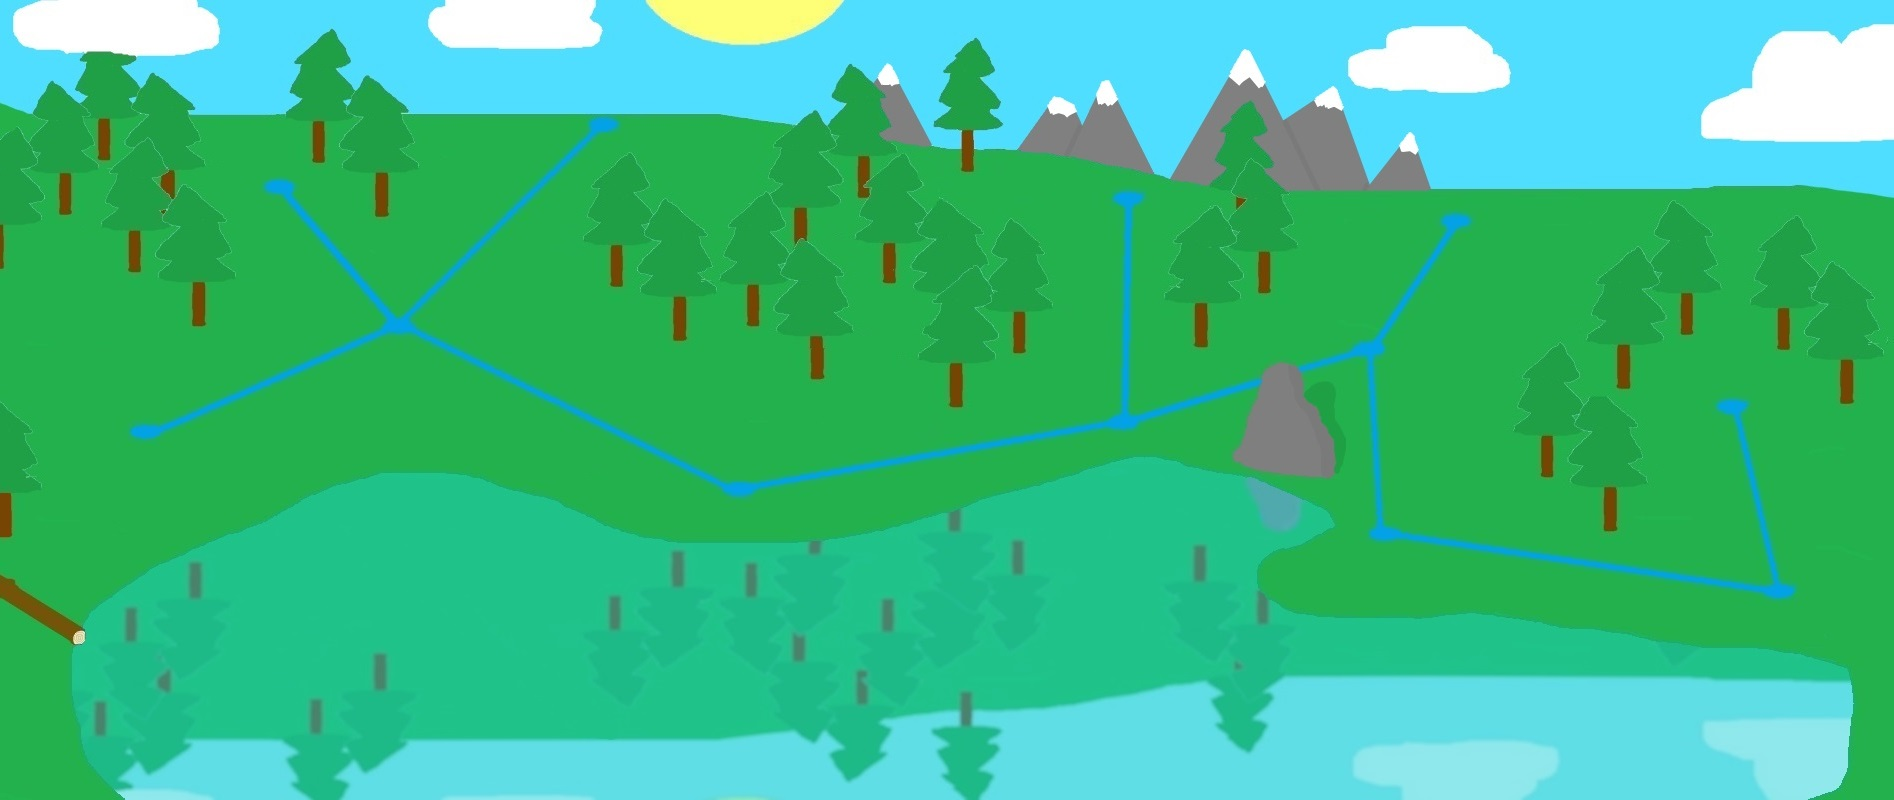
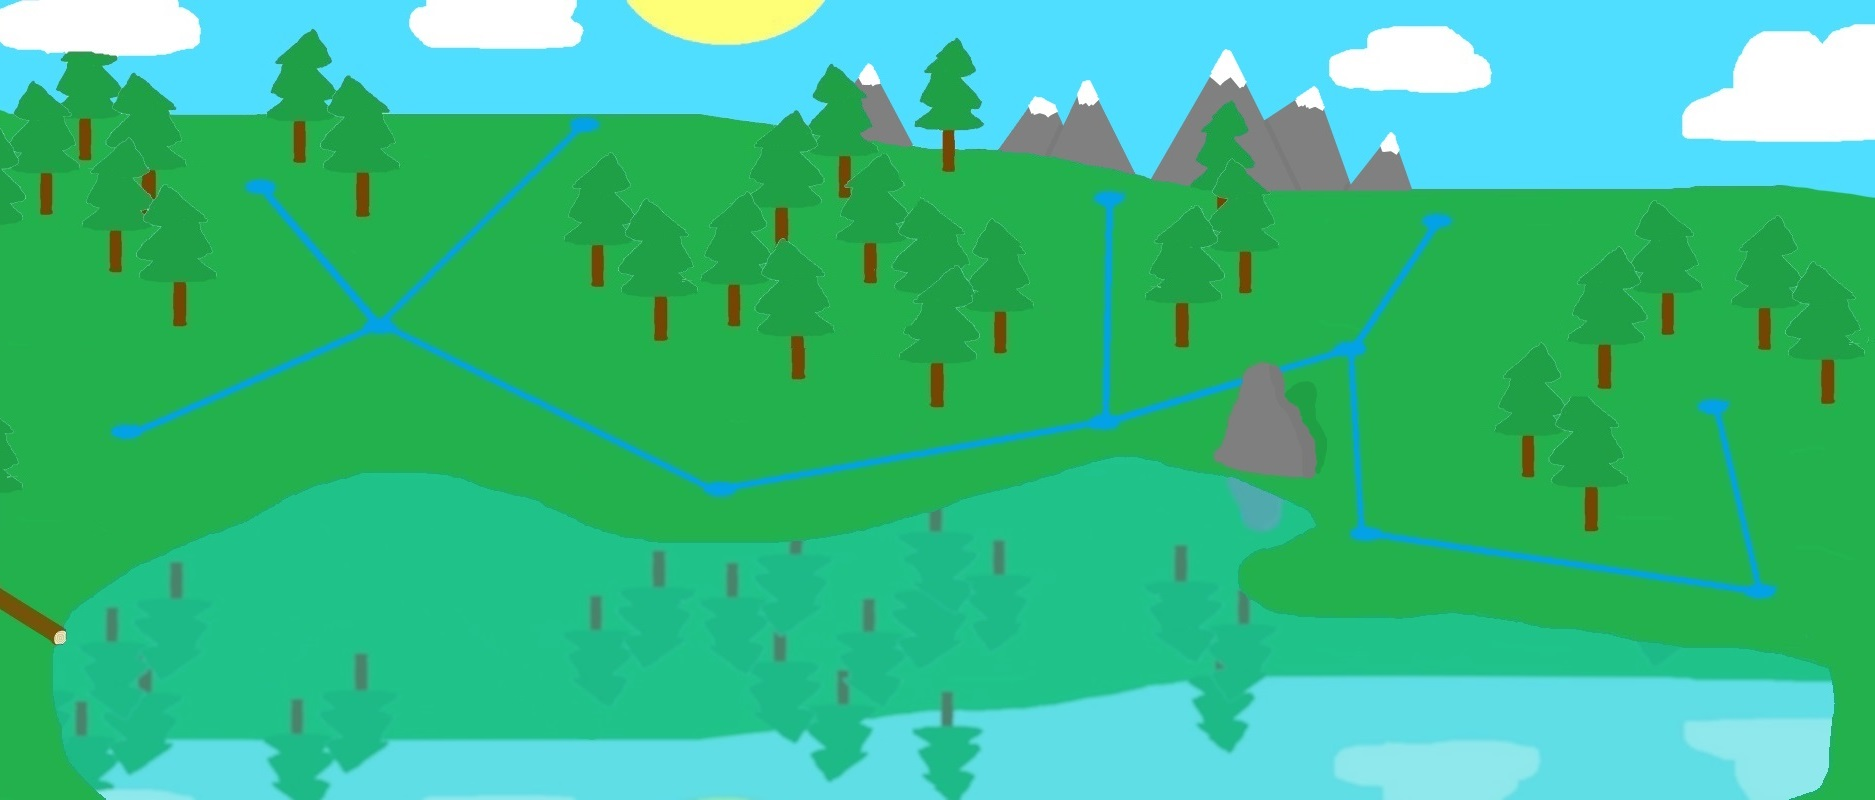
Shrunk Screen, fixed glitches.

diff --git a/Civilization Game/source.js b/Civilization Game/source.js
@@ -17,10 +17,10 @@ var pushedButton = "";
 var pressed = false;
 var burning = false;
 var burningTown;
-var messageDisplay1=false;
+var message1 = false;
 
 function resetMessages(){
-    messageDisplay1=false;
+    message1 = false;
 }
 
 function destroyTown(){
@@ -50,75 +50,77 @@ function mapPoint(x,y){
     this.y = y;
 }
 
+
+    
 function adjacent(x1,y1,x2,y2){
-    if(x1==100 && y1==340){
-        if(x2==355 && y2==233){
+    if(x1==50 && y1==340){
+        if(x2==305 && y2==233){
             return true;
         }else{
             return false;
         }
-    }else if(x1==240 && y1==90){
-        if(x2==355 && y2==233){
+    }else if(x1==190 && y1==90){
+        if(x2==305 && y2==233){
             return true;
         }else{
             return false;
         }
-    }else if(x1==355 && y1==233){
-        if(x2==100 && y2==340 || x2==240 && y2==90 || x2==550 && y2==30 || x2==695 && y2==400){
+    }else if(x1==305 && y1==233){
+        if(x2==50 && y2==340 || x2==190 && y2==90 || x2==500 && y2==30 || x2==645 && y2==400){
             return true;
         }else{
             return false;
         }
-    }else if(x1==550 && y1==30){
-        if(x2==355 && y2==233){
+    }else if(x1==500 && y1==30){
+        if(x2==305 && y2==233){
             return true;
         }else{
             return false;
         }
-    }else if(x1==695 && y1==400){
-        if(x2==355 && y2==233|| x2==1080 && y2==330){
+    }else if(x1==645 && y1==400){
+        if(x2==305 && y2==233|| x2==1050 && y2==330){
             return true;
         }else{
             return false;
         }
-    }else if(x1==1080 && y1==330){
-        if(x2==695 && y2==400 || x2==1085 && y2==100||x2==1320 && y2==260){
+    }else if(x1==1050 && y1==330){
+        if(x2==645 && y2==400 || x2==1035 && y2==100||x2==1270 && y2==260){
             return true;
         }else{
             return false;
         }
-    }else if(x1==1085 && y1==100){
-        if(x2==1080 && y2==330){
+    }else if(x1==1035 && y1==100){
+        if(x2==1050 && y2==330){
             return true;
         }else{
             return false;
         }
-    }else if(x1==1320 && y1==260){
-        if(x2==1080 && y2==330 || x2==1415 && y2==125 || x2==1340 && y2==440){
+    }else if(x1==1270 && y1==260){
+        if(x2==1050 && y2==330 || x2==1365 && y2==125 || x2==1290 && y2==440){
             return true;
         }else{
             return false;
         }
-    }else if(x1==1415 && y1==125){
-        if(x2==1320 && y2==260){
+    }else if(x1==1365 && y1==125){
+        if(x2==1270 && y2==260){
             return true;
         }else{
             return false;
         }
-    }else if(x1==1340 && y1==440){
-        if(x2==1320 && y2==260 || x2==1730 && y2==500){
+    }else if(x1==1290 && y1==440){
+        if(x2==1270 && y2==260 || x2==1680 && y2==500){
             return true;
         }else{
             return false;
         }
-    }else if(x1==1730 && y1==500){
-        if(x2==1340 && y2==440 || x2==1690 && y2==310){
+    }else if(x1==1680 && y1==500){
+        if(x2==1290 && y2==440 || x2==1640 && y2==310){
             return true;
         }else{
             return false;
         }
-    }else if(x1==1690 && y1==310){
-        if(x2==1730 && y2==500){
+    }else if(x1==1640 && y1==310){
+        if(x2==1680 && y2==500){
             return true;
         }else{
             return false;
@@ -371,7 +373,7 @@ function angleBetween(x1,y1,x2,y2){
     };
 
     var angleRadians = Math.atan2(p2.y - p1.y, p2.x - p1.x);
-    var angleDeg = Math.atan2(p2.y - p1.y, p2.x - p1.x) * 180 / Math.PI;  
+    var angleDeg = Math.atan2(p2.y - p1.y, p2.x - p1.x) * 190 / Math.PI;  
     return(angleDeg);  
 }
 
@@ -519,18 +521,18 @@ function setup() {
     document.getElementById("MapUnit1").style.top=0;
     document.getElementById("MapUnit2").style.left=0;
     document.getElementById("MapUnit2").style.top=0;
-    mapPoints.push(new mapPoint(100,340));
-    mapPoints.push(new mapPoint(240,90));
-    mapPoints.push(new mapPoint(355,233));
-    mapPoints.push(new mapPoint(550,30));
-    mapPoints.push(new mapPoint(695,400));
-    mapPoints.push(new mapPoint(1080,330));
-    mapPoints.push(new mapPoint(1085,100));
-    mapPoints.push(new mapPoint(1320,260));
-    mapPoints.push(new mapPoint(1415,125));
-    mapPoints.push(new mapPoint(1340,440));
-    mapPoints.push(new mapPoint(1730,500));
-    mapPoints.push(new mapPoint(1690,310));
+    mapPoints.push(new mapPoint(50,340));
+    mapPoints.push(new mapPoint(190,90));
+    mapPoints.push(new mapPoint(305,233));
+    mapPoints.push(new mapPoint(500,30));
+    mapPoints.push(new mapPoint(645,400));
+    mapPoints.push(new mapPoint(1050,330));
+    mapPoints.push(new mapPoint(1035,100));
+    mapPoints.push(new mapPoint(1270,260));
+    mapPoints.push(new mapPoint(1365,125));
+    mapPoints.push(new mapPoint(1290,440));
+    mapPoints.push(new mapPoint(1680,500));
+    mapPoints.push(new mapPoint(1640,310));
 
     var rand = round(random(0,11));
     towns.push(new Town(mapPoints[rand].x,mapPoints[rand].y,1,1));    
@@ -628,6 +630,12 @@ function draw() {
         towns[i].render();
         towns[i].update();
     }
+
+    if(message1==true){
+        document.getElementById("SquadTroops").style.top = 835;
+        document.getElementById("SquadTroops").innerHTML = "You need at least 2 peasants to reproduce.";
+    }
+
     for(var a=0;a<squads.length;a++){
         squads[a].render();
     }
@@ -700,7 +708,7 @@ function draw() {
 
         for(var a=0;a<squads[squad1].units.length;a++){
             document.getElementById("SquadUnit"+(a+1)).style.left = 305;
-            document.getElementById("SquadUnit"+(a+1)).style.top = 295 +(45*squads[squad1].units.length-1)-(45*(a+1))+(291-parseInt(document.getElementById("Slider1").style.top));
+            document.getElementById("SquadUnit"+(a+1)).style.top = 305 +(45*squads[squad1].units.length-1)-(45*(a+1))+(291-parseInt(document.getElementById("Slider1").style.top));
 
             if(squads[squad1].units[a].unitType==1){
                 document.getElementById("SquadUnit"+(a+1)).src = "graphics/SwordsmanListUnit.png";   
@@ -723,7 +731,7 @@ function draw() {
         if(squads[squad2] != null){
             for(var a=0;a<squads[squad2].units.length;a++){
                 document.getElementById("GarrisonUnit"+(a+1)).style.left = 1405;
-                document.getElementById("GarrisonUnit"+(a+1)).style.top = 295 +(45*squads[squad2].units.length-1)-(45*(a+1))+(291-parseInt(document.getElementById("Slider2").style.top));
+                document.getElementById("GarrisonUnit"+(a+1)).style.top = 305 +(45*squads[squad2].units.length-1)-(45*(a+1))+(291-parseInt(document.getElementById("Slider2").style.top));
 
                 if(squads[squad2].units[a].unitType==1){
                     document.getElementById("GarrisonUnit"+(a+1)).src = "graphics/SwordsmanListUnit.png";   

diff --git a/Civilization Game/mouse.js b/Civilization Game/mouse.js
@@ -337,15 +337,15 @@ function mouseReleased() {
                         var unitRemoved = false;
                         for(var c=0;c<towns[i].garrison.length;c++){
                             if(unitRemoved == false){
-                                if(towns[i].garrison[c].unitType == 4&&towns[i].peasants>2){
+                                if(towns[i].garrison[c].unitType == 4 && towns[i].peasants>2){
                                     gold = gold + 5;
                                     towns[i].garrison.splice(c,1); 
                                     towns[i].garrison.push(new Unit(5));
                                     unitRemoved = true;
                                     document.getElementById("Click").play();
                                 }else{
-                                    messageDisplay1 = true;
-                                    setTimeout(resetMessages, 2000);
+                                    message1 = true;
+                                    setTimeout(resetMessages,2000);
                                 }
                             }
                         }
@@ -357,6 +357,7 @@ function mouseReleased() {
             for(var i=0;i<towns.length;i++){
                 if(selection == towns[i] && towns[i].team == 1){
                     towns[i].menu = 3;
+                    message1 = false;
                     document.getElementById("Click").play();
                     pushedButton = "GarrisonButton";
                     buttonEffect();

diff --git a/Civilization Game/towns.js b/Civilization Game/towns.js
@@ -91,11 +91,6 @@ function Town(x,y,i,t){
     			document.getElementById("Conversion2").src = "graphics/Conversion2.png"; 
     			document.getElementById("Conversion3").src = "graphics/Conversion3.png"; 
     			document.getElementById("Conversion4").src = "graphics/Conversion4.png"; 
-                if(messageDisplay1==true){
-                    document.getElementById("SquadTroops").innerHTML = ("You need at least 2 peasants to reproduce.");
-                    document.getElementById("SquadTroops").style.top = 847; 
-                }
-                
     		}else if(this.menu==2){
                 if(this.wall==true){
                     document.getElementById("Construction1").src = "graphics/Construction1Green.png";  
@@ -106,8 +101,8 @@ function Town(x,y,i,t){
     		}else if(this.menu==3){
     			document.getElementById("SquadListBackground1").src = "graphics/SquadListBackground.png"; 
     			document.getElementById("SquadListBackground2").src = "graphics/SquadListBackground.png"; 
-    			document.getElementById("SquadTroops").innerHTML = ("Sqaud Troops");
                 document.getElementById("SquadTroops").style.top = 947;
+    			document.getElementById("SquadTroops").innerHTML = ("Sqaud Troops");
     			document.getElementById("TownTroops").innerHTML = ("Town Garrison("+this.garrison.length+")");
     			document.getElementById("Slider1").src = "graphics/Slider.png";
     			document.getElementById("Slider2").src = "graphics/Slider.png";
